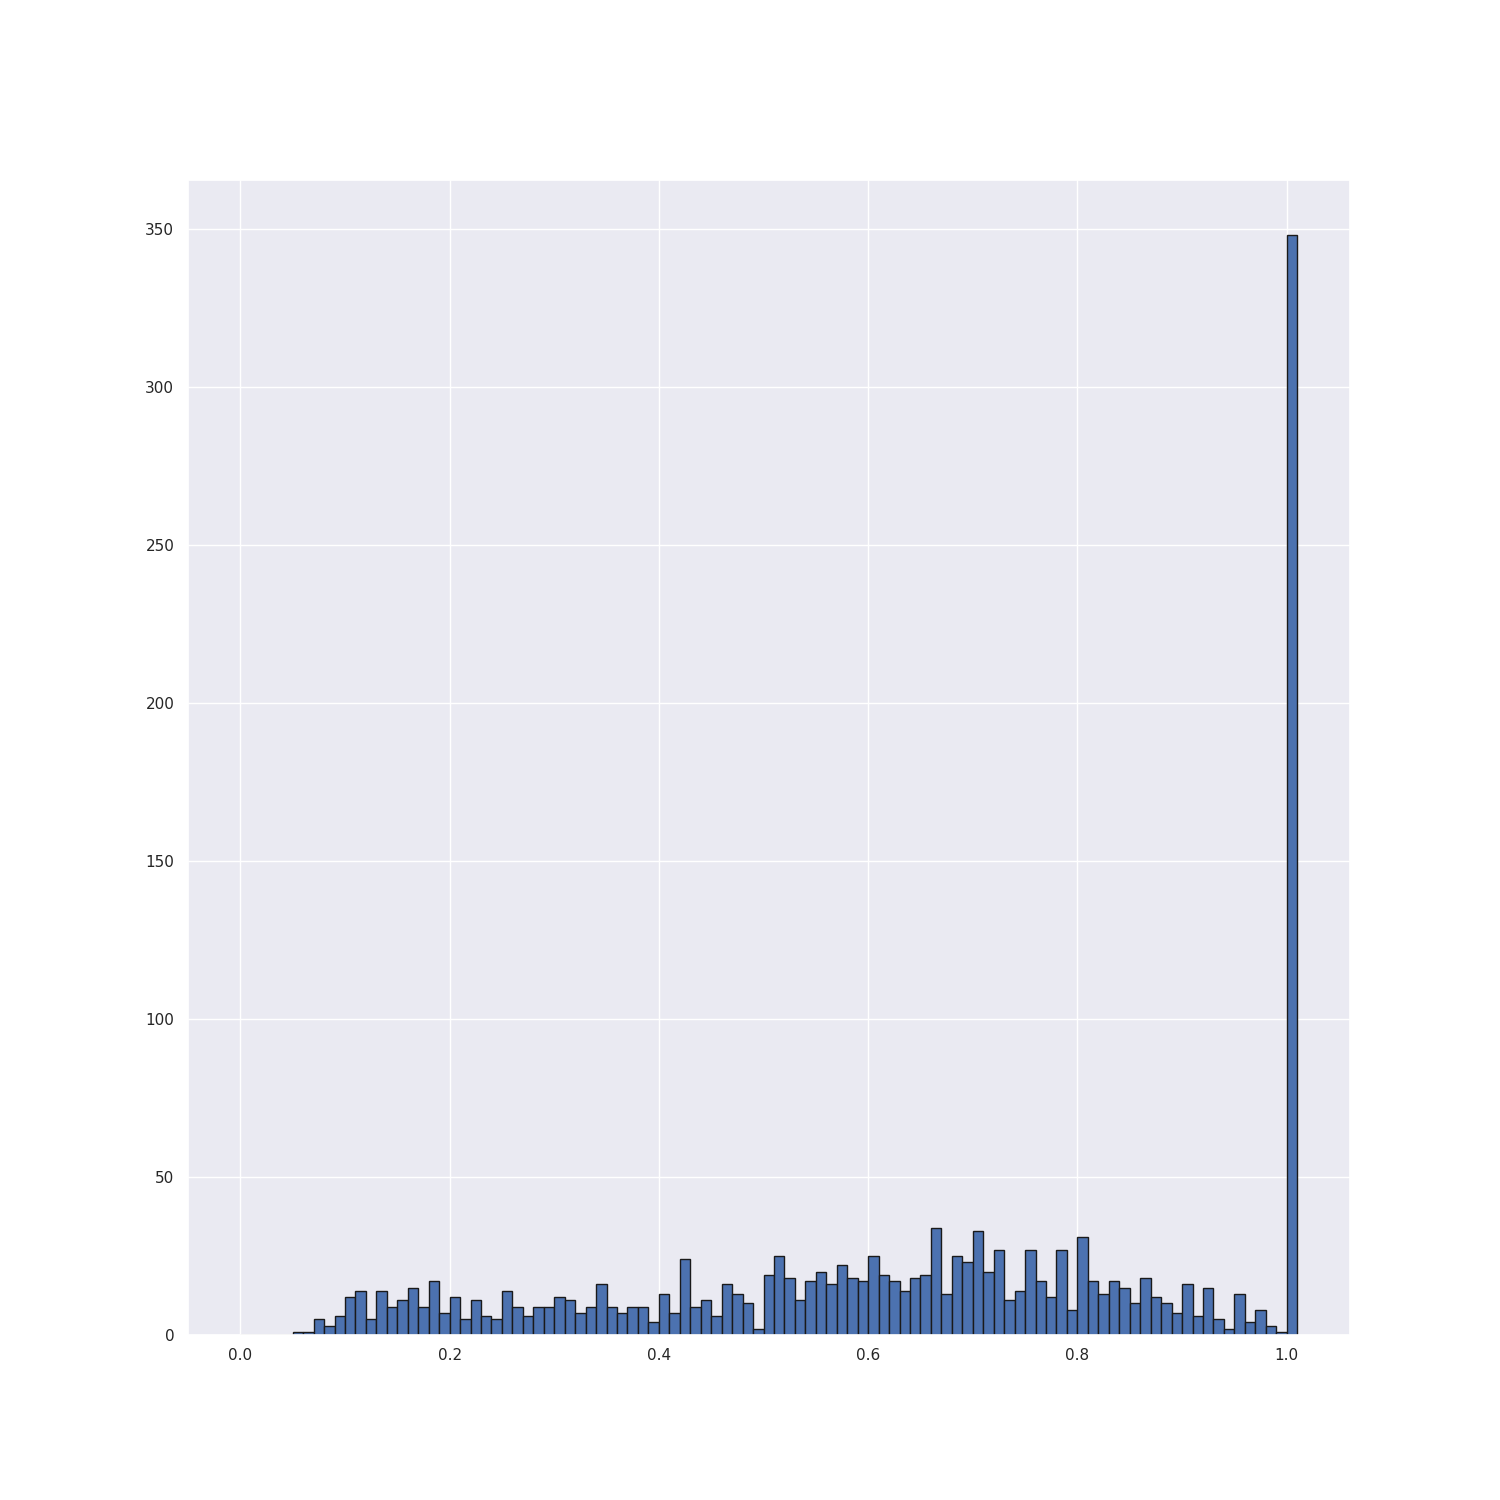
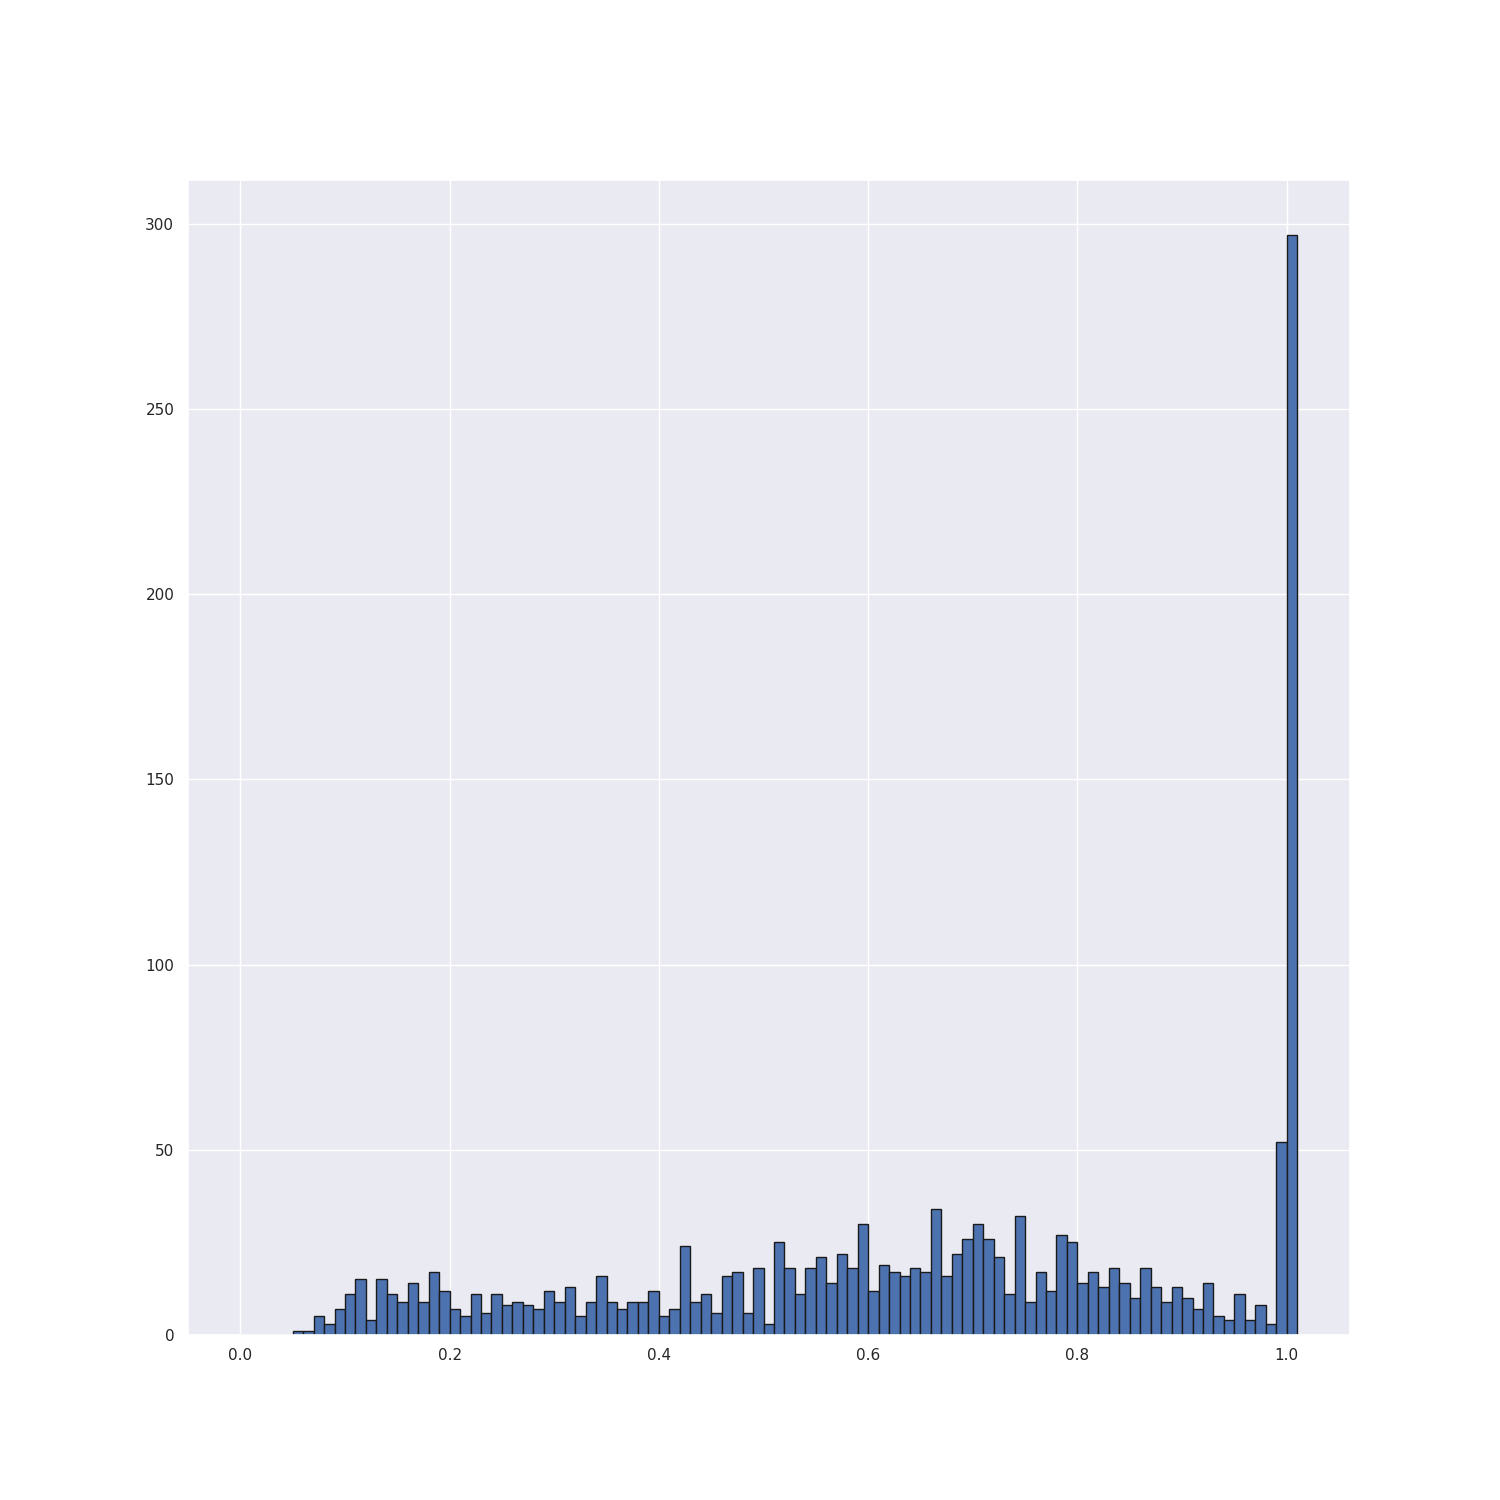
cp

Changed region(s): [[0.2147, 0.7973, 0.7667, 0.8893], [0.7667, 0.7667, 0.8587, 0.8893], [0.092, 0.2453, 0.1227, 0.276]]

diff --git a/plot.py b/plot.py
@@ -37,17 +37,26 @@ elif sys.argv[2] == 'VAF':
 
 	b = list(range(101)) + [1000]
 	b = [item/100 for item in b]
-	frq, edges = np.histogram(VAF, bins = b)
-	edges = list(edges[0:-1])
-	edges.append(1.01)
 
+	frq = np.zeros((101))
+	for i in range(len(VAF)):
+		for j in range(len(b)-1):
+			if VAF[i] > b[j] and VAF[i] <= b[j + 1]:
+				frq[j] += 1
+			if VAF[i] == 0:
+				frq[0] += 1
+
+
+	# frq, edges = np.histogram(VAF, bins = b)
+	edges = list(b[0:-1])
+	edges.append(1.01)
 
 
 	sns.set()
 	fig, ax = plt.subplots(nrows = 1, ncols = 1, figsize = (15, 15))
 	sns.distplot(VAF, ax = ax, bins = edges)
 	plt.xlim(0, 1.02)
-	fig.savefig( '{}.png'.format('VAF_dist')) 
+	fig.savefig( 'plots/{}.png'.format('VAF_dist')) 
 	plt.close(fig)
 
 
@@ -60,5 +69,12 @@ elif sys.argv[2] == 'VAF':
 
 	fig, ax = plt.subplots(nrows = 1, ncols = 1, figsize = (15, 15))
 	ax.bar(edges[:-1], frq, width=np.diff(edges), ec="k", align="edge")
-	fig.savefig( '{}.png'.format('VAF_count'))   
+	fig.savefig( 'plots/{}.png'.format('VAF_count'))   
 	plt.close(fig)
+
+else:
+	x = [1, 2, 3, 5, 3, 6]
+	frq, edges = np.histogram(x, bins = [1,2,3,5])
+
+
+	
